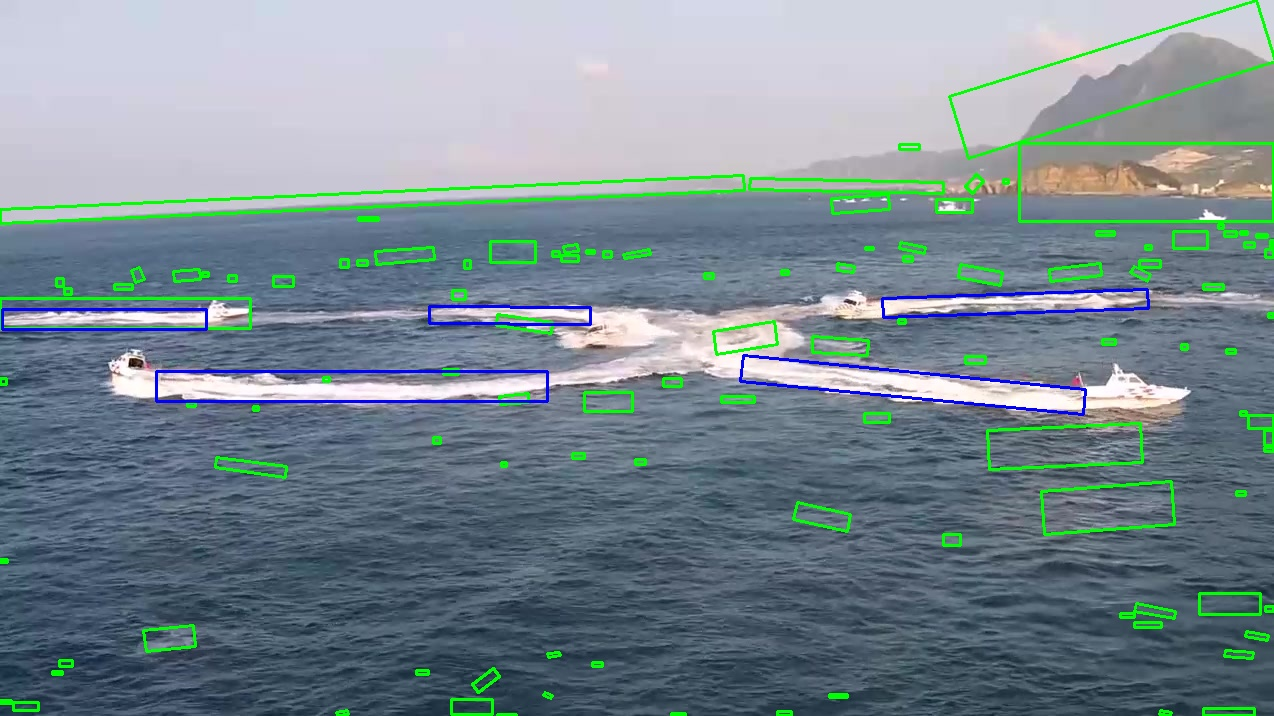
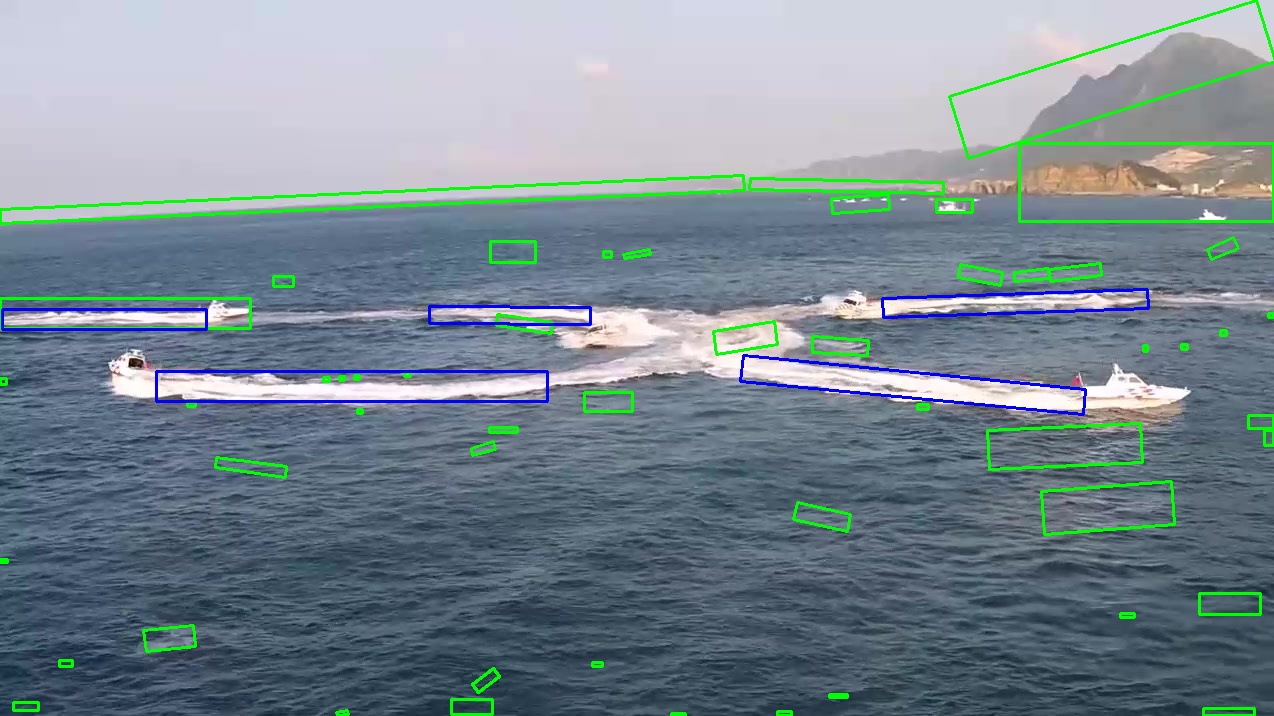
filter smaller bboxes(improved)

diff --git a/stern_wave_yolo_n_tradition.py b/stern_wave_yolo_n_tradition.py
@@ -123,35 +123,50 @@ class BoatTracker:
                         if (width * height) < (img_area * 0.05):
                             boxes.append(np.int32(cv2.boxPoints(rect)))
         return boxes
+
+    def draw_cluster_debug(self, img, cluster_boxes, chosen_box):
+        debug = img.copy()
+        cv2.drawContours(debug, cluster_boxes, -1, (0, 255, 255), 1)  # cluster = yellow
+        cv2.drawContours(debug, [chosen_box], -1, (0, 0, 255), 3)     # chosen = red
+        return debug
     
     # Box_B Filter
-    def filter_small_boxes(self, boxes, min_area_ratio=0.0002, img_area=None):
-        if img_area is None:
-            return boxes
-
-        min_area = img_area * min_area_ratio
-        return [b for b in boxes if cv2.contourArea(b) >= min_area]
-    
-    def suppress_close_small_boxes(self, boxes, dist_thresh=40, area_ratio=0.3):
+    def suppress_close_small_boxes(
+        self,
+        img,
+        boxes,
+        dist_thresh=100,
+        dominance_thresh=3.0, #3.0
+        debug=False
+    ):
         if not boxes:
             return []
 
-        # sort large → small
+        # largest → smallest
         boxes = sorted(boxes, key=cv2.contourArea, reverse=True)
-
         kept = []
-        centers = [np.mean(b, axis=0) for b in boxes]
 
-        for i, b in enumerate(boxes):
-            keep = True
+        for b in boxes:
+            area_b = cv2.contourArea(b)
+            center_b = np.mean(b, axis=0)
+
+            suppress = False
+
             for k in kept:
-                dist = np.linalg.norm(
-                    np.mean(b, axis=0) - np.mean(k, axis=0)
-                )
+                area_k = cv2.contourArea(k)
+                center_k = np.mean(k, axis=0)
+
+                dist = np.linalg.norm(center_b - center_k)
+
                 if dist < dist_thresh:
-                    keep = False
-                    break
-            if keep:
+                    dominance_ratio = area_k / area_b
+
+                    if dominance_ratio > dominance_thresh:
+                        suppress = True
+
+                    break  # stop checking neighbors
+
+            if not suppress:
                 kept.append(b)
 
         return kept
@@ -312,11 +327,10 @@ class BoatTracker:
                 width, height = rect[1]
                 if width > 0 and height > 0:
                     ratio = max(width, height) / min(width, height)
-                    if ratio > 0.8:
+                    if ratio > 0.8: #0.8
                         if (width * height) < (img_area * 0.05):
                             boxes.append(np.int32(cv2.boxPoints(rect)))
         return boxes
-
 
     def run_detection(self, img):
         hsv = cv2.cvtColor(img, cv2.COLOR_BGR2HSV)
@@ -336,19 +350,27 @@ class BoatTracker:
         )
 
         boxes_B = self.suppress_close_small_boxes(
+            img,
             boxes_B,
-            dist_thresh=60,
-            area_ratio=0.4
+            dist_thresh=100,
+            dominance_thresh=2.5,
+            debug=True
         )
 
         # combine all boxes
         all_boxes = boxes_A + boxes_B + boxes_C
 
+        all_boxes = self.suppress_close_small_boxes(
+            img,
+            all_boxes,
+            dist_thresh=80, #80
+            debug=True
+        )
+
         # FINAL hard constraint: no overlaps allowed
         final_boxes = self.suppress_overlaps(all_boxes)
 
         return final_boxes
-
 
 # Method2: Use DL(YOLOv8 OBB)
 
